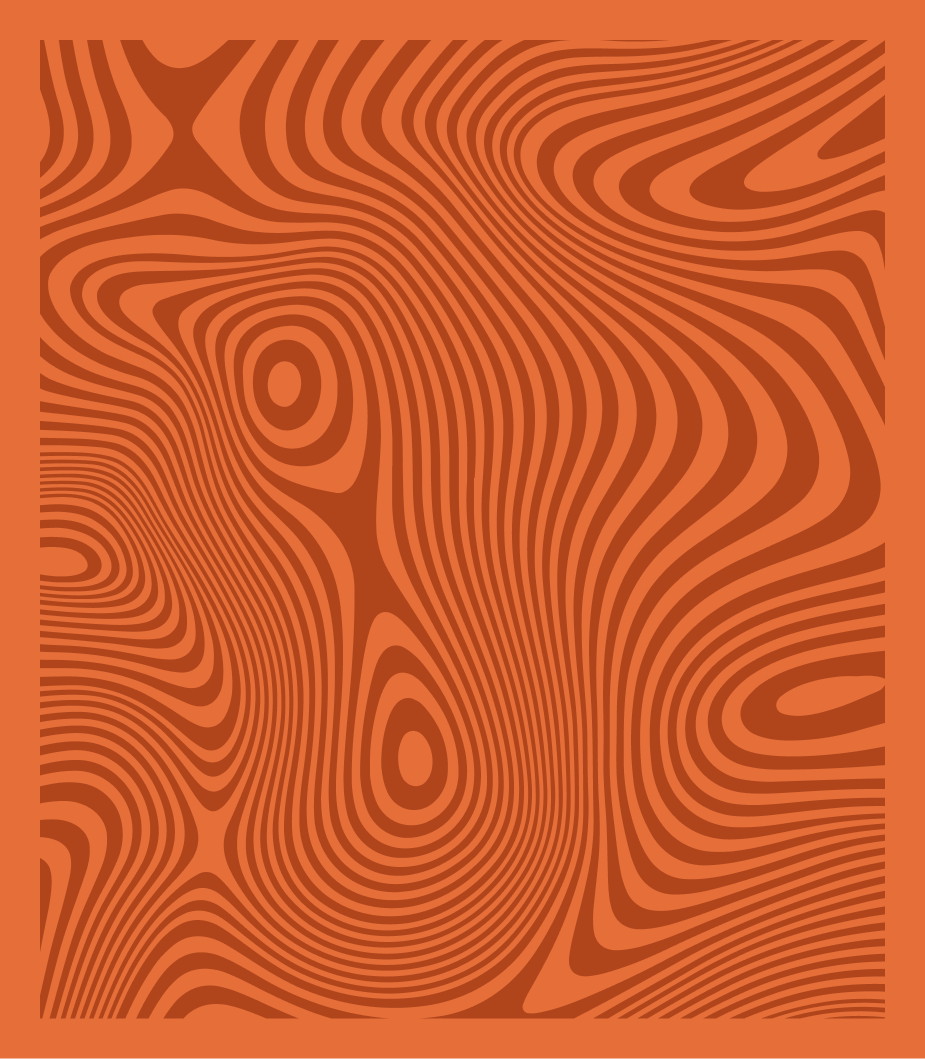
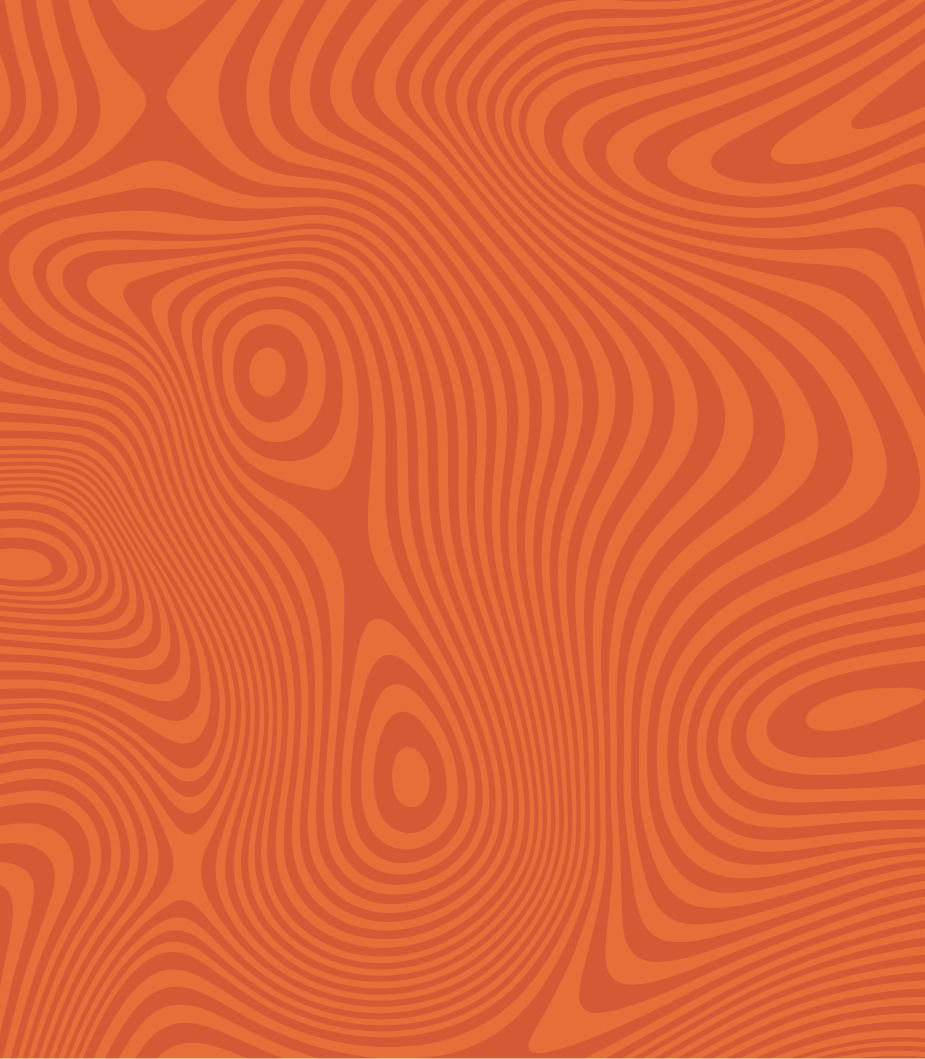
remove spacing around home image

diff --git a/src/components/Home/Home.tsx b/src/components/Home/Home.tsx
@@ -27,19 +27,16 @@ import subnet13 from "@/assets/bittensor/subnet-13.png";
 
 const groceries = [
   {
-    emoji: "🍎",
     value: "Consectetur aliqua qui consectetur voluptate mollit?",
     description:
       "Crisp and refreshing fruit. Apples are known for their versatility and nutritional benefits. They come in a variety of flavors and are great for snacking, baking, or adding to salads.",
   },
   {
-    emoji: "🍌",
     value: "Elit enim excepteur Lorem ad?",
     description:
       "Naturally sweet and potassium-rich fruit. Bananas are a popular choice for their energy-boosting properties and can be enjoyed as a quick snack, added to smoothies, or used in baking.",
   },
   {
-    emoji: "🥦",
     value: "Cillum dolore aute nulla ullamco magna proident?",
     description:
       "Nutrient-packed green vegetable. Broccoli is packed with vitamins, minerals, and fiber. It has a distinct flavor and can be enjoyed steamed, roasted, or added to stir-fries.",
@@ -49,7 +46,7 @@ const groceries = [
 export function Home() {
   const items = groceries.map((item) => (
     <Accordion.Item className="bg-gray-200" key={item.value} value={item.value}>
-      <Accordion.Control icon={item.emoji}>{item.value}</Accordion.Control>
+      <Accordion.Control>{item.value}</Accordion.Control>
       <Accordion.Panel>{item.description}</Accordion.Panel>
     </Accordion.Item>
   ));
